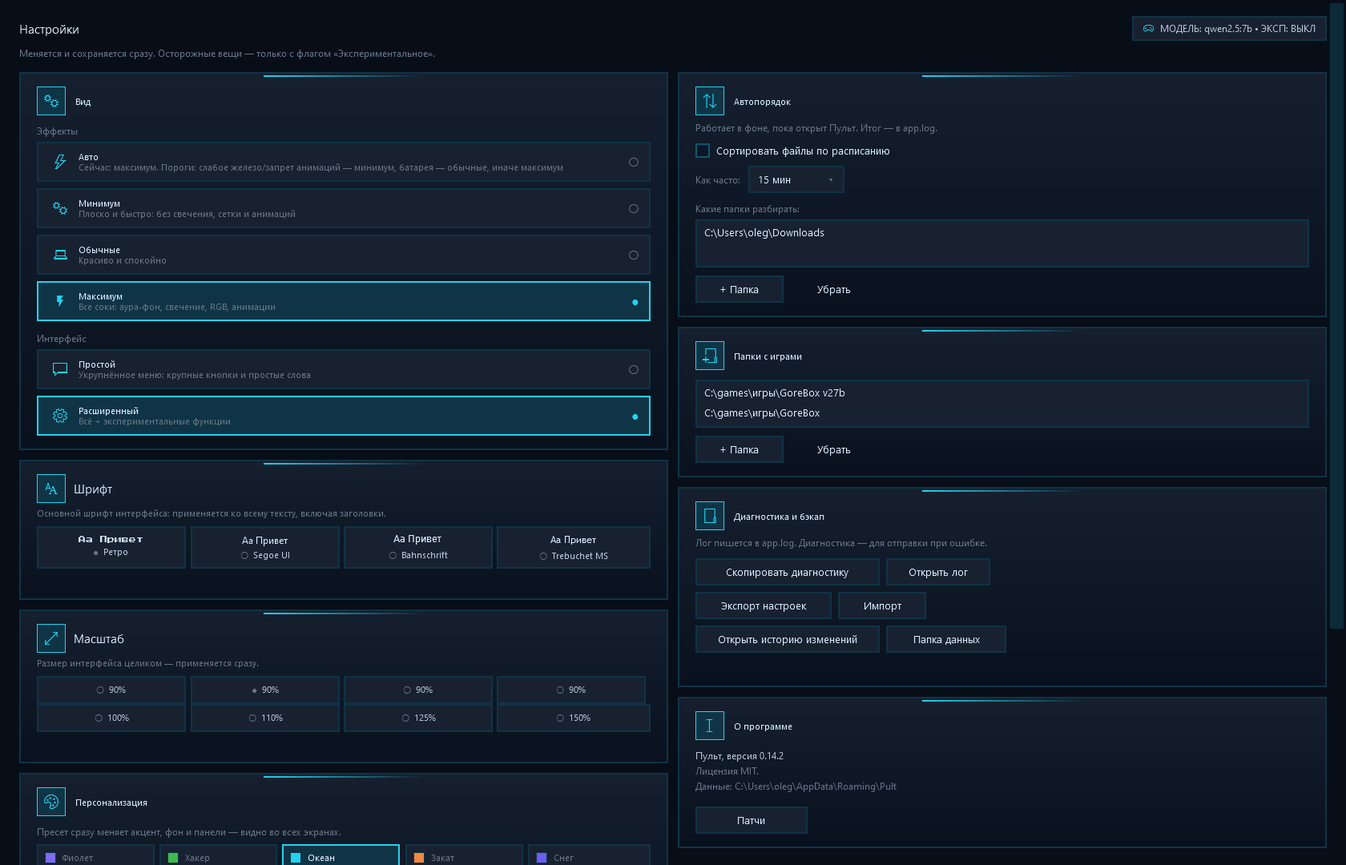
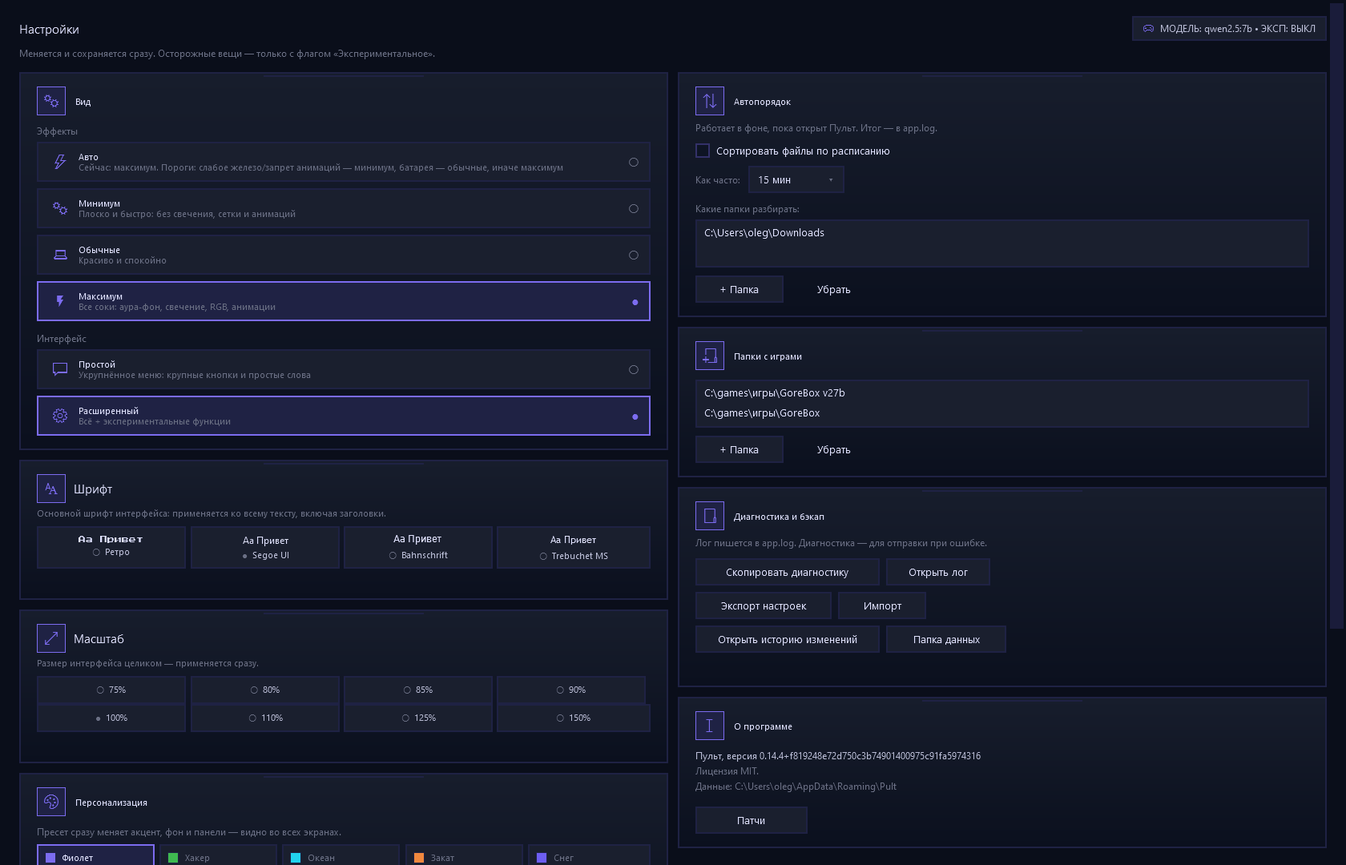
Пульт 0.14.5 - мастер из трех шагов, гейт-щит, фикс сохранения настроек
Мастер первого запуска: 3 шага (интерфейс/эффекты/старт), окно 660x640; гейт админа - щит с пульсом, 560x440; перегрузка Appearance.ApplyScale(minScale). Корень бага: WidgetLeft/WidgetTop=NaN ронял сериализацию, Save() молчал - общий AppSettings.JsonOpts (AllowNamedFloatingPointLiterals) + логи AppLog. SimpleHomeView.xaml: NL нормализован в чистый CRLF (находка audit_newnl, MIXED 1->0). Доки: 4 рендера под 0.14.5 + скрины мастера и гейта в docs/.

diff --git a/Pult/Views/SimpleHomeView.xaml b/Pult/Views/SimpleHomeView.xaml
@@ -1,25 +1,25 @@
-<UserControl x:Class="Pult.Views.SimpleHomeView"
-             xmlns="http://schemas.microsoft.com/winfx/2006/xaml/presentation"
-             xmlns:x="http://schemas.microsoft.com/winfx/2006/xaml"
-             UseLayoutRounding="True" SnapsToDevicePixels="True"
-             TextOptions.TextRenderingMode="ClearType">
-    <ScrollViewer VerticalScrollBarVisibility="Auto" HorizontalScrollBarVisibility="Disabled"
-                  Background="Transparent">
+<UserControl x:Class="Pult.Views.SimpleHomeView"
+             xmlns="http://schemas.microsoft.com/winfx/2006/xaml/presentation"
+             xmlns:x="http://schemas.microsoft.com/winfx/2006/xaml"
+             UseLayoutRounding="True" SnapsToDevicePixels="True"
+             TextOptions.TextRenderingMode="ClearType">
+    <ScrollViewer VerticalScrollBarVisibility="Auto" HorizontalScrollBarVisibility="Disabled"
+                  Background="Transparent">
         <StackPanel Margin="28,24,28,32">
             <TextBlock Text="Главная" FontFamily="{DynamicResource F_Ui}"
                        FontSize="24" Foreground="{DynamicResource B_Accent}"/>
 
             <!-- Пульс: здоровье одним числом + история -->
             <Grid Margin="0,16,0,0">
-                <Border x:Name="PulseGlowFrame" Background="Transparent"
-                        BorderBrush="{DynamicResource B_Border}" BorderThickness="2"
-                        IsHitTestVisible="False"/>
-                <Border x:Name="PulseCard" Style="{StaticResource SimpleActionCard}"
-                    Background="{DynamicResource B_Card}"
-                    BorderBrush="{DynamicResource B_Border}" BorderThickness="2"
-                    Padding="0" Margin="0" Cursor="Hand"
-                    MouseLeftButtonUp="Pulse_Click"
-                    ToolTip="Что входит в оценку — кликни.">
+                <Border x:Name="PulseGlowFrame" Background="Transparent"
+                        BorderBrush="{DynamicResource B_Border}" BorderThickness="2"
+                        IsHitTestVisible="False"/>
+                <Border x:Name="PulseCard" Style="{StaticResource SimpleActionCard}"
+                    Background="{DynamicResource B_Card}"
+                    BorderBrush="{DynamicResource B_Border}" BorderThickness="2"
+                    Padding="0" Margin="0" Cursor="Hand"
+                    MouseLeftButtonUp="Pulse_Click"
+                    ToolTip="Что входит в оценку — кликни.">
                 <Grid Margin="28,26">
                     <Grid.ColumnDefinitions>
                         <ColumnDefinition Width="Auto"/>
@@ -28,28 +28,28 @@
                     <StackPanel Grid.Column="0" VerticalAlignment="Center" Margin="0,0,24,0">
                         <TextBlock x:Name="PulseScore" Text="…" RenderTransformOrigin="0.5,0.5"
                                    FontFamily="{DynamicResource F_Ui}" FontSize="56"
-                                   Foreground="{DynamicResource B_Text}"
-                                   HorizontalAlignment="Center"/>
+                                   Foreground="{DynamicResource B_Text}"
+                                   HorizontalAlignment="Center"/>
                         <!-- 🆕 0.14.3: кардиограмма убрана как «техно-деталь»
                              (простому юзеру она ничего не говорит) -->
                         <Polyline x:Name="PulseSpark" Width="120" Height="36"
                                   Stroke="{DynamicResource B_Accent}" StrokeThickness="2"
                                   Visibility="Collapsed"
                                   HorizontalAlignment="Center" Margin="0,6,0,0"/>
-                    </StackPanel>
-                    <StackPanel Grid.Column="1" VerticalAlignment="Center">
-                        <TextBlock x:Name="PulseStatus" Text="Считаю…"
-                                   FontFamily="{DynamicResource F_Ui}" FontSize="15"
-                                   Foreground="{DynamicResource B_Text}" TextWrapping="Wrap"/>
-                        <TextBlock x:Name="PulseSub" Text="" FontSize="13"
-                                   Foreground="{DynamicResource B_Dim}"
-                                   Margin="0,4,0,0" TextWrapping="Wrap"/>
-                    </StackPanel>
-                </Grid>
-            </Border>
-
-            <!-- Умная проверка одним кликом -->
-            </Grid>
+                    </StackPanel>
+                    <StackPanel Grid.Column="1" VerticalAlignment="Center">
+                        <TextBlock x:Name="PulseStatus" Text="Считаю…"
+                                   FontFamily="{DynamicResource F_Ui}" FontSize="15"
+                                   Foreground="{DynamicResource B_Text}" TextWrapping="Wrap"/>
+                        <TextBlock x:Name="PulseSub" Text="" FontSize="13"
+                                   Foreground="{DynamicResource B_Dim}"
+                                   Margin="0,4,0,0" TextWrapping="Wrap"/>
+                    </StackPanel>
+                </Grid>
+            </Border>
+
+            <!-- Умная проверка одним кликом -->
+            </Grid>
             <Border x:Name="SmartCard" Style="{StaticResource SimpleActionCard}" Margin="0,16,0,0" Height="110"
                     Padding="26,22" Cursor="Hand" MouseLeftButtonUp="Smart_Click"
                     ToolTip="Сам проверю диск, мусор и обновления, потом предложу исправить.">
@@ -67,7 +67,7 @@
                     </StackPanel>
                 </StackPanel>
             </Border>
-
+
             <!-- Четыре большие кнопки -->
             <UniformGrid Columns="2" Margin="0,16,0,0">
                 <Border Style="{StaticResource SimpleActionCard}" Margin="0,0,10,10" Height="200"
@@ -166,8 +166,8 @@
                        Margin="8,12,0,0" TextWrapping="Wrap" Cursor="Hand"
                        TextDecorations="Underline" MouseLeftButtonUp="GoAdvanced_Click"
                        ToolTip="Открыть Настройки на блоке «Вид»."/>
-        </StackPanel>
-    </ScrollViewer>
-</UserControl>
-
-
+        </StackPanel>
+    </ScrollViewer>
+</UserControl>
+
+

diff --git a/Pult/Services/ReleaseNotes.cs b/Pult/Services/ReleaseNotes.cs
@@ -9,6 +9,13 @@ public static class ReleaseNotes
 
     public static readonly Note[] All =
     {
+        new("0.14.5", new[]
+        {
+            "Приветствие стало пошаговым: три коротких шага — интерфейс, эффекты и с чего начать.",
+            "Экран прав администратора обновлён: щит с пульсом и понятное объяснение, почему нужны права.",
+            "Сохранение настроек надёжнее: одна странная координата виджета больше не срывает запись файла целиком.",
+            "Диалоги (приветствие, защита прав) выросли при масштабе 100% — ничего не обрезается.",
+        }),
         new("0.14.4", new[]
         {
             "Система: «Обзор» стал приборной стеной — главные показатели видны сразу, подробности открываются по клику на плитку.",

diff --git a/CHANGELOG.md b/CHANGELOG.md
@@ -1,6 +1,67 @@
 # Пульт — журнал изменений (для ревью вторым ИИ)
 
-Репозитория git нет, это выжимка по коду. Свежее сверху.
+Репозиторий git есть (main, публичное репо `pult`), это выжимка по коду.
+Свежее сверху.
+
+## 0.14.5: первые окна (мастер 3 шага, гейт-щит) + фикс потери настроек (26.09)
+Волна закрыта по конвейеру BRIEF §6. Версия `Pult.csproj` = 0.14.5, запись
+0.14.5 в `ReleaseNotes.cs` (IsCurrent). Итоги: Debug/Release/стенд 0/0/0,
+`check_014` 11/11, `verify_renders` 15/15, аудиты 8×exit=0 (`audit_pult`
+XML 0, `xaml_audit` MISSING KEYS 0/HANDLERS 0, `audit_no_wiggle` 0,
+`audit_reverse` 0 (keys=38 names=341), `audit_glyphs_ctx` FINDINGS 0
+(xaml=84 cs=56), `audit_newnl` MIXED 0, `check_my_xml` PROBLEMS 0,
+`verify_renders` 15/15), `clip_check` fails=0, `fontclick` 13/13,
+`fxswitch` fails=0 (12 PASS), `auto` 16/16 спек; живость: breathe
+`heroOp 0.302..0.995`, `heroX −109..260`, `cardOp 0.353..0.999`;
+breathe-s `barOp 0.505..0.992`, `glintX −84..192`.
+- **Мастер первого запуска — три шага (WelcomeWizard, редизайн):**
+  «ШАГ N ИЗ 3» с точками-прогрессом; шаг 1 «Как показывать интерфейс?»
+  (Просто/Подробно), шаг 2 «Как рисовать эффекты?» (Авто/Минимум +
+  живое превью-дыхание), шаг 3 «Готово» с тремя подсказками «с чего
+  начать»; «Назад/Далее/Пропустить», «Открыть Пульт» в конце. Окно
+  выращено до 660×640 (см. ApplyScale), шрифт/масштаб/тема применяются
+  до показа окна — как в штатном старте.
+- **Гейт прав администратора (AdminGate):** щит-замок с пульсом и красной
+  рамкой «RESTRICTED», объяснение «почему нужны права», кнопки
+  «Перезапустить как админ»/«Выйти»; окно 560×440.
+- **Фикс сохранения настроек (корень жалобы «нажал — не сохранилось»):**
+  `WidgetLeft/WidgetTop` по умолчанию `double.NaN`; System.Text.Json без
+  `JsonNumberHandling.AllowNamedFloatingPointLiterals` бросал
+  ArgumentException ИМЕННО на записи, а `AppSettings.Save` глотал его
+  `catch`'ем — файл не появлялся, Save() «молчал», мастер возвращался
+  при каждом запуске. Фикс: общий `AppSettings.JsonOpts` (на чтение и
+  запись: `"NaN"` читается обратно, старые файлы с числами тоже) +
+  честные логи в AppLog («Сохранение настроек: …», «Мастер: файл настроек
+  не записался…»).
+- **Масштаб 100%: перегрузка `Appearance.ApplyScale(Window, double minScale)`**
+  — окна-диалоги больше не «дёргаются» вверх на полном масштабе
+  (мастер 660×640, гейт 560×440).
+- **Инструменты восстановлены (temp/opencode):** `render_adv`,
+  `stand.csproj`, 7 аудитов (`audit_pult/reverse/glyphs/xaml/no_wiggle/
+  newnl`, `check_my_xml`) по контрактам HANDOFF/BRIEF §6; `run_audits`
+  расширен до 8 скриптов → `audit_report.txt`; `wizshow` — харнесс окон
+  первого входа (Show() + DispatcherFrame-насос, handshake-файл шагов,
+  завершение `Environment.Exit` из тика: кадр с `Continue=false` зависал
+  на десятки секунд — диспетчер засыпал в WaitForOperation и не
+  пробуждался ни живым тикером, ни пульсом гейта); скрины 3 шагов и гейта
+  → `docs/wizard-step1..3.png`, `docs/admin-gate.png`.
+- **Кэш игр:** сидер `games_seed` прогнал `GetGames(true, ExtraGameDirs)`
+  → `%APPDATA%\Pult\games.json` = 4 игры с размерами (BG3 155ГБ,
+  GoreBox v27b 861МБ, GoreBox27 993МБ, Roblox 351МБ; total
+  157566301556) — честный рендер бара размера.
+- **Пины BASE в `run_renders.py`:** `Effects=3` (Auto на этом ПК =
+  Maximum), `Interface=1` (LIGHT требует «Подробно»),
+  `ExperimentalEnabled=False` (иначе ExpOn рисует LLM-карточку и
+  SECTIONS падает) — замерами, единственный способ держать LIGHT и
+  SECTIONS+bars одновременно.
+- **SimpleHomeView.xaml: NL нормализован** — находка восстановленного
+  `audit_newnl` (MIXED: 1 → 0): 38 CRCRLF-строк дизайнера + 135 CRLF →
+  чистый CRLF под доминирующим стилем, BOM сохранён, содержимое не тронуто.
+- **Публикация:** git-репозиторий (`-b main`, первый коммит `f819248`),
+  `.gitattributes` (`* -text` — байт-точность против автоконверсий),
+  `.gitignore`, `README.md`, `docs/` = 4 рендера + 4 скрина первых окон;
+  GitHub: публичное репо **pult** + Release с самораспаковывающимся
+  zip-экзешником (win-x64 self-contained).
 
 ## 0.14.4: дизайн-волна — приборная стена (Обзор), страница-ответ (Чат) (25.09)
 Скетчи Sys B и Chat 3 одобрены юзером → реализованы. Версия `Pult.csproj`

diff --git a/HANDOFF.md b/HANDOFF.md
@@ -8,6 +8,64 @@
 
 ## Профильтровано по порядку (свежее сверху)
 
+### -8. Пакет 0.14.5: первые окна, фикс сохранения, инструменты, git (26.09)
+Детали в CHANGELOG 0.14.5. Версия `Pult.csproj` = 0.14.5, запись 0.14.5 в
+`ReleaseNotes.cs` (`IsCurrent`). Конвейер честно прогнал после бампа:
+Debug/Release/стенд 0/0/0, `check_014` 11/11, `verify_renders` 15/15,
+аудиты **8×exit=0** (в `audit_report.txt`), `clip_check` fails=0,
+`fontclick` 13/13, `fxswitch` fails=0 (12 PASS), `auto` 16/16 спек
+(run_live: 21 PASS/0 FAIL — счётчик лог+консоль); живость: breathe
+`heroOp 0.302..0.995`, `heroX −109..260`, `cardOp 0.353..0.999`;
+breathe-s `barOp 0.505..0.992`, `glintX −84..192`.
+- **Код:** WelcomeWizard (мастер 3 шага, ShowStep(int,bool) приватный),
+  AdminGate (щит-пульс), `Appearance.ApplyScale(Window, double minScale)`
+  перегрузка, `AppSettings.JsonOpts` (AllowNamedFloatingPointLiterals —
+  NaN-координаты виджета роняли запись, Save() молчал → мастер
+  возвращался каждый запуск). Кодировки: WelcomeWizard/AdminGate.xaml =
+  UTF-8 BOM + `\r\r\n` (нормализация `norm_dialogs.py`), их .cs и
+  `AppSettings.cs` = без BOM, чистый LF.
+- **Git/публикация:** `git init -b main`, первый коммит `f819248` (77
+  файлов), push НЕ делался. Байт-точность: `.gitattributes` (`* -text`) +
+  repo-local `core.autocrlf=false`/`core.eol=lf`. GitHub: публичное репо
+  **pult**, аутентификация — gh CLI (портативный
+  `temp/opencode/gh/gh.exe`, БЕЗ GCM; device-flow протухает — логинить
+  в момент пуша и код показывать юзеру). Перед пушом — повторный
+  `secret_scan.py` (в прошлый раз 81 файл, 0 хитов).
+- **Инструменты (temp/opencode):** восстановлены `render_adv` (переключён
+  на отдельный каталог рендера `temp/opencode/advdata` — раньше делил
+  APPDATA с играми; сдвиг из `dir` убран, префиксы суффиксов отменены —
+  схема имён файлов как вручную), 7 аудитов по контрактам HANDOFF §−1/
+  BRIEF §6, `run_audits` теперь 8 скриптов (added `audit_newnl`,
+  `check_my_xml`) → `audit_report.txt`.
+- **ЛОВУШКА рендера (не откатывать):** `render_adv --adv` (свежая копия
+  settings) и сидер `games_seed --adv` (кэш игр) — **два разных
+  процесса/слоя**: совмещение в одном запуске пропускает reseed
+  (каталоги настроек и игр — разные, но только один процесс может
+  работать с APPDATA за раз). `EXTRA APPDATA` (игры/кэш) — отдельный
+  слой от `advdata` (настроек).
+- **`wizshow` (харнесс первых окон):** Show() + DispatcherFrame-насос,
+  шаги — рефлексией `ShowStep`, handshake-файл `wizshow_ack.txt`
+  («step N» → удалить), запуск ОБЯЗАТЕЛЬНО с `APPDATA=advdata`
+  (OnClosing мастера зовёт `TrySave` и пишет settings.json!).
+  **Завершение только `Environment.Exit` из тика:** выход через
+  `frame.Continue=false` зависал — диспетчер засыпал в WaitForOperation
+  и не пробуждался (мастер 35.7с, гейт 1.9–2.4с от пульса); с
+  `timer.Stop()` — вообще вечное ожидание. Драйвер `wizshow_run.py`
+  (снимки `shot_win.py`, отложка 2с на первый кадр). Скрины уже сняты →
+  `docs/wizard-step1..3.png`, `docs/admin-gate.png`.
+- **`audit_newnl` (новая истина по NL):** файл обязан быть одностильным
+  (CRLF/LF/CRCRLF), BOM опционален. Первая находка: `SimpleHomeView.xaml`
+  MIXED (BOM + 135 CRLF + 38 CRCRLF от дизайнера) → нормализован в
+  чистый CRLF (BOM сохранён, содержимое нетронуто) — MIXED: 0.
+  `norm_dialogs.py` этот файл не покрывает — конфликта нет.
+- **Пины BASE (единый источник — `run_renders.py`):** `Effects=3`,
+  `Interface=1`, `ExperimentalEnabled=False` — единственный способ
+  держать LIGHT и SECTIONS+bars одновременно (замерами).
+- **Кэш игр:** `games_seed` → `%APPDATA%\Pult\games.json` = 4 игры с
+  SizeBytes (BG3 155ГБ, GoreBox v27b 861МБ, GoreBox27 993МБ, Roblox
+  351МБ, total 157566301556); CONTENT-чек games теперь читает
+  `render_live-games.png` (21412 пикселей).
+
 ### -7. Пакет 0.14.4: Sys B приборная стена + Chat 3 страница-ответ (25.09)
 Скетчи одобрены → закрыты; детали в CHANGELOG 0.14.4. Версия
 `Pult.csproj` = 0.14.4, запись 0.14.4 в `ReleaseNotes.cs` (`IsCurrent`

diff --git a/README.md b/README.md
@@ -46,7 +46,8 @@ WPF · C# · .NET 10 · всё локально.
   молча — инструменты разделены на read-only и требующие подтверждения.
 - **Строгий режим приватности** (`StrictPrivacyMode`) дополнительно режет
   доступ к буферу обмена, историю и логи и стирает их при выходе.
-- **Приватный репозиторий** — исходники видны только владельцу.
+- **Исходники открыты** — публичный репозиторий: код можно прочитать
+  и проверить до установки.
 
 ## Сборка
 
@@ -77,6 +78,11 @@ dotnet publish Pult/Pult.csproj -c Release -r win-x64 --self-contained true -o p
 При первом запуске покажется гейт «Нужны права администратора» (для части
 твиков) и мастер первого запуска из трёх шагов: интерфейс, эффекты, быстрый
 старт.
+
+![Шаг 1: интерфейс](docs/wizard-step1.png)
+![Шаг 2: эффекты](docs/wizard-step2.png)
+![Шаг 3: готово](docs/wizard-step3.png)
+![Гейт администратора](docs/admin-gate.png)
 
 ## Структура
 
